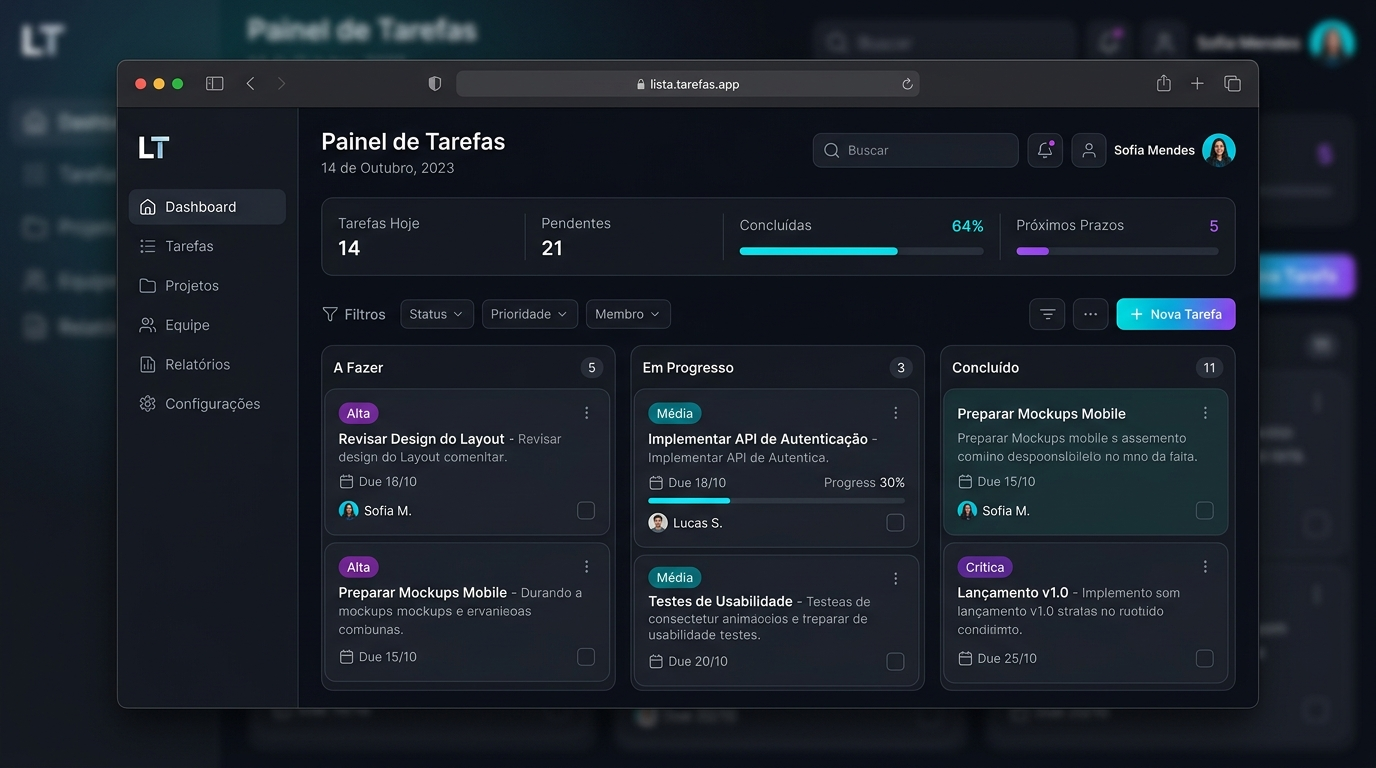
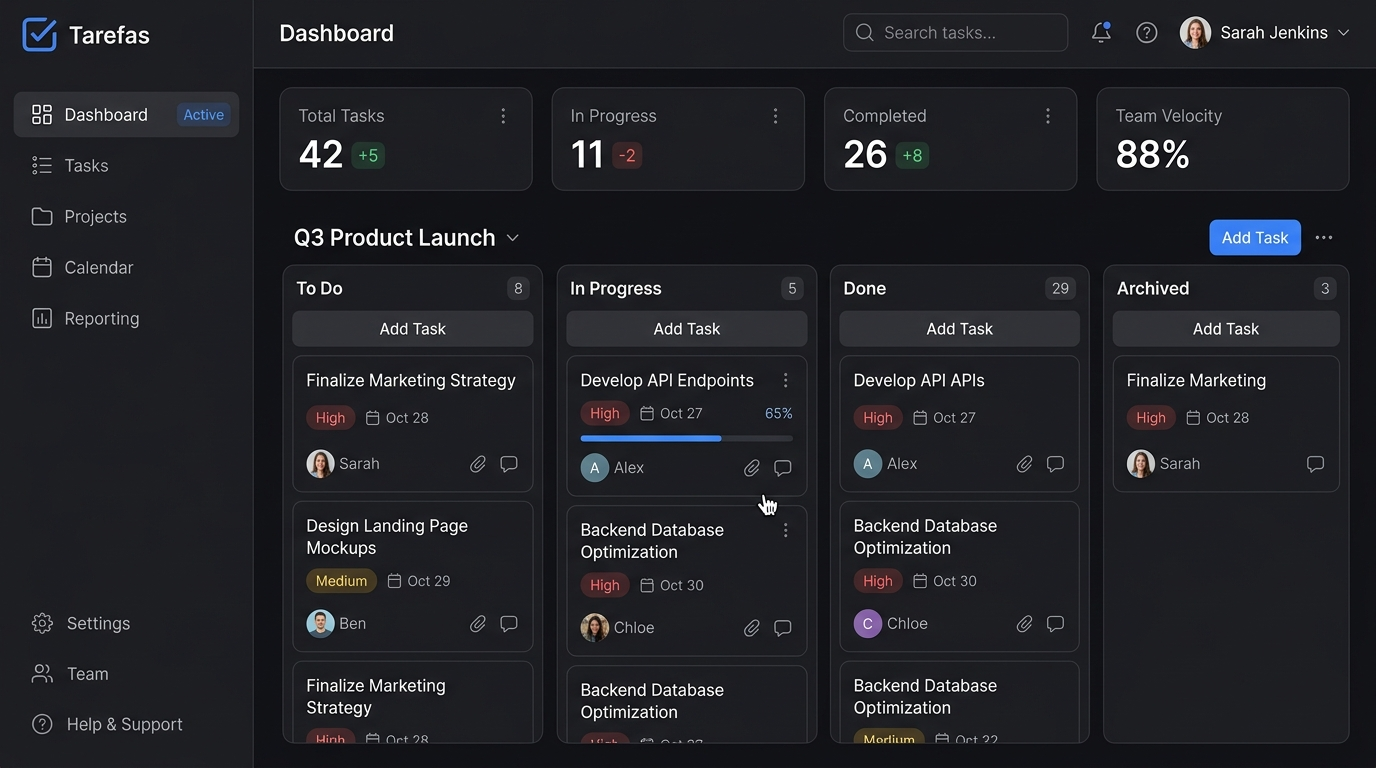
refactor: remove mockup de browser, bolds artificiais e renomeia Task Planner para Foco

diff --git a/index.html b/index.html
@@ -641,14 +641,14 @@
                     </div>
                 </article>
 
-                <!-- Projeto 3: Task Planner -->
+                <!-- Projeto 3: Foco -->
                 <article class="editorial-card">
                     <div class="card-image-wrap">
-                        <img src="assets/img/todolist.jpg" alt="Task Planner App" class="card-image" />
+                        <img src="assets/img/todolist.jpg" alt="Foco - Gerenciador de Tarefas" class="card-image" />
                     </div>
                     <div class="card-body">
                         <div class="card-header-line">
-                            <h3 class="card-title">Task Planner</h3>
+                            <h3 class="card-title">Foco</h3>
                             <div class="card-links">
                                 <a href="https://github.com/Davidds5/lista-de-tarefas" target="_blank" class="card-link">
                                     <i data-lucide="github" style="width: 14px; height: 14px;"></i> Código no GitHub
@@ -691,13 +691,13 @@
 
                 <div class="about-content">
                     <p>
-                        Escolhi me especializar em <strong>Java e Spring Boot</strong> pela solidez que a stack oferece em regras de negócio complexas: tipagem estrita, previsibilidade em concorrência e controle fino de transações. Sou estudante de <strong>Análise e Desenvolvimento de Sistemas (ADS) na Estácio</strong>.
+                        Escolhi me especializar em Java e Spring Boot pela solidez que a stack oferece em regras de negócio complexas: tipagem estrita, previsibilidade em concorrência e controle fino de transações. Sou estudante de Análise e Desenvolvimento de Sistemas (ADS) na Estácio.
                     </p>
                     <p>
-                        Um desafio real que me exigiu engenharia de verdade foi evitar <strong>vazamento de dados entre clientes em aplicações multi-tenant</strong>. Em vez de confiar que cada consulta manual conteria uma cláusula <code>where tenant_id = ?</code> — o que abre brecha para falhas humanas —, implementei um interceptor com <strong>AspectJ (AOP) e filtros globais dinâmicos no Hibernate</strong>. O filtro lê o tenant autenticado a partir do <code>TenantContext</code> (ThreadLocal) e restringe automaticamente todas as operações de leitura e escrita no PostgreSQL.
+                        Um desafio real que me exigiu engenharia de verdade foi evitar vazamento de dados entre clientes em aplicações multi-tenant. Em vez de confiar que cada consulta manual conteria uma cláusula <code>where tenant_id = ?</code> — o que abre brecha para falhas humanas —, implementei um interceptor com AspectJ (AOP) e filtros globais dinâmicos no Hibernate. O filtro lê o tenant autenticado a partir do TenantContext (ThreadLocal) e restringe automaticamente todas as operações de leitura e escrita no PostgreSQL.
                     </p>
                     <p>
-                        Na camada visual, construo interfaces com <strong>Next.js 16, TypeScript e Tailwind CSS</strong>. Também compartilho minha rotina de desenvolvimento diariamente em transmissões ao vivo no canal <strong>Clovin DEV no YouTube</strong>, praticando resolução de problemas reais e documentação em público.
+                        Na camada visual, construo interfaces com Next.js 16, TypeScript e Tailwind CSS. Também compartilho minha rotina de desenvolvimento diariamente em transmissões ao vivo no canal Clovin DEV no YouTube, praticando resolução de problemas reais e documentação em público.
                     </p>
 
                     <div class="skills-grid-editorial">

diff --git a/portifolio/index.html b/portifolio/index.html
@@ -641,14 +641,14 @@
                     </div>
                 </article>
 
-                <!-- Projeto 3: Task Planner -->
+                <!-- Projeto 3: Foco -->
                 <article class="editorial-card">
                     <div class="card-image-wrap">
-                        <img src="assets/img/todolist.jpg" alt="Task Planner App" class="card-image" />
+                        <img src="assets/img/todolist.jpg" alt="Foco - Gerenciador de Tarefas" class="card-image" />
                     </div>
                     <div class="card-body">
                         <div class="card-header-line">
-                            <h3 class="card-title">Task Planner</h3>
+                            <h3 class="card-title">Foco</h3>
                             <div class="card-links">
                                 <a href="https://github.com/Davidds5/lista-de-tarefas" target="_blank" class="card-link">
                                     <i data-lucide="github" style="width: 14px; height: 14px;"></i> Código no GitHub
@@ -691,13 +691,13 @@
 
                 <div class="about-content">
                     <p>
-                        Escolhi me especializar em <strong>Java e Spring Boot</strong> pela solidez que a stack oferece em regras de negócio complexas: tipagem estrita, previsibilidade em concorrência e controle fino de transações. Sou estudante de <strong>Análise e Desenvolvimento de Sistemas (ADS) na Estácio</strong>.
+                        Escolhi me especializar em Java e Spring Boot pela solidez que a stack oferece em regras de negócio complexas: tipagem estrita, previsibilidade em concorrência e controle fino de transações. Sou estudante de Análise e Desenvolvimento de Sistemas (ADS) na Estácio.
                     </p>
                     <p>
-                        Um desafio real que me exigiu engenharia de verdade foi evitar <strong>vazamento de dados entre clientes em aplicações multi-tenant</strong>. Em vez de confiar que cada consulta manual conteria uma cláusula <code>where tenant_id = ?</code> — o que abre brecha para falhas humanas —, implementei um interceptor com <strong>AspectJ (AOP) e filtros globais dinâmicos no Hibernate</strong>. O filtro lê o tenant autenticado a partir do <code>TenantContext</code> (ThreadLocal) e restringe automaticamente todas as operações de leitura e escrita no PostgreSQL.
+                        Um desafio real que me exigiu engenharia de verdade foi evitar vazamento de dados entre clientes em aplicações multi-tenant. Em vez de confiar que cada consulta manual conteria uma cláusula <code>where tenant_id = ?</code> — o que abre brecha para falhas humanas —, implementei um interceptor com AspectJ (AOP) e filtros globais dinâmicos no Hibernate. O filtro lê o tenant autenticado a partir do TenantContext (ThreadLocal) e restringe automaticamente todas as operações de leitura e escrita no PostgreSQL.
                     </p>
                     <p>
-                        Na camada visual, construo interfaces com <strong>Next.js 16, TypeScript e Tailwind CSS</strong>. Também compartilho minha rotina de desenvolvimento diariamente em transmissões ao vivo no canal <strong>Clovin DEV no YouTube</strong>, praticando resolução de problemas reais e documentação em público.
+                        Na camada visual, construo interfaces com Next.js 16, TypeScript e Tailwind CSS. Também compartilho minha rotina de desenvolvimento diariamente em transmissões ao vivo no canal Clovin DEV no YouTube, praticando resolução de problemas reais e documentação em público.
                     </p>
 
                     <div class="skills-grid-editorial">

diff --git a/curriculo_david_pt.html b/curriculo_david_pt.html
@@ -269,7 +269,7 @@
     <section class="summary">
         <h2>Resumo Profissional</h2>
         <p>
-            Estudante de Análise e Desenvolvimento de Sistemas (Estácio) focado em desenvolvimento de software com o ecossistema <strong>Java, Spring Boot e React/Next.js</strong>. Especializado na construção de arquiteturas SaaS Multi-Tenant com isolamento de dados por design (Spring Security, Hibernate Filter AOP e Prisma ORM). Com perfil autodidata e consistente, desenvolvo e mantenho aplicações reais em produção e realizo transmissões técnicas diárias no canal Clovin DEV, consolidando código limpo, boas práticas e comunicação assertiva.
+            Estudante de Análise e Desenvolvimento de Sistemas (Estácio) focado em desenvolvimento de software com o ecossistema Java, Spring Boot e React/Next.js. Especializado na construção de arquiteturas SaaS Multi-Tenant com isolamento de dados por design (Spring Security, Hibernate Filter AOP e Prisma ORM). Com perfil autodidata e consistente, desenvolvo e mantenho aplicações reais em produção e realizo transmissões técnicas diárias no canal Clovin DEV, consolidando código limpo, boas práticas e comunicação assertiva.
         </p>
     </section>
 

diff --git a/portifolio/curriculo_david_pt.html b/portifolio/curriculo_david_pt.html
@@ -269,7 +269,7 @@
     <section class="summary">
         <h2>Resumo Profissional</h2>
         <p>
-            Estudante de Análise e Desenvolvimento de Sistemas (Estácio) focado em desenvolvimento de software com o ecossistema <strong>Java, Spring Boot e React/Next.js</strong>. Especializado na construção de arquiteturas SaaS Multi-Tenant com isolamento de dados por design (Spring Security, Hibernate Filter AOP e Prisma ORM). Com perfil autodidata e consistente, desenvolvo e mantenho aplicações reais em produção e realizo transmissões técnicas diárias no canal Clovin DEV, consolidando código limpo, boas práticas e comunicação assertiva.
+            Estudante de Análise e Desenvolvimento de Sistemas (Estácio) focado em desenvolvimento de software com o ecossistema Java, Spring Boot e React/Next.js. Especializado na construção de arquiteturas SaaS Multi-Tenant com isolamento de dados por design (Spring Security, Hibernate Filter AOP e Prisma ORM). Com perfil autodidata e consistente, desenvolvo e mantenho aplicações reais em produção e realizo transmissões técnicas diárias no canal Clovin DEV, consolidando código limpo, boas práticas e comunicação assertiva.
         </p>
     </section>
 
